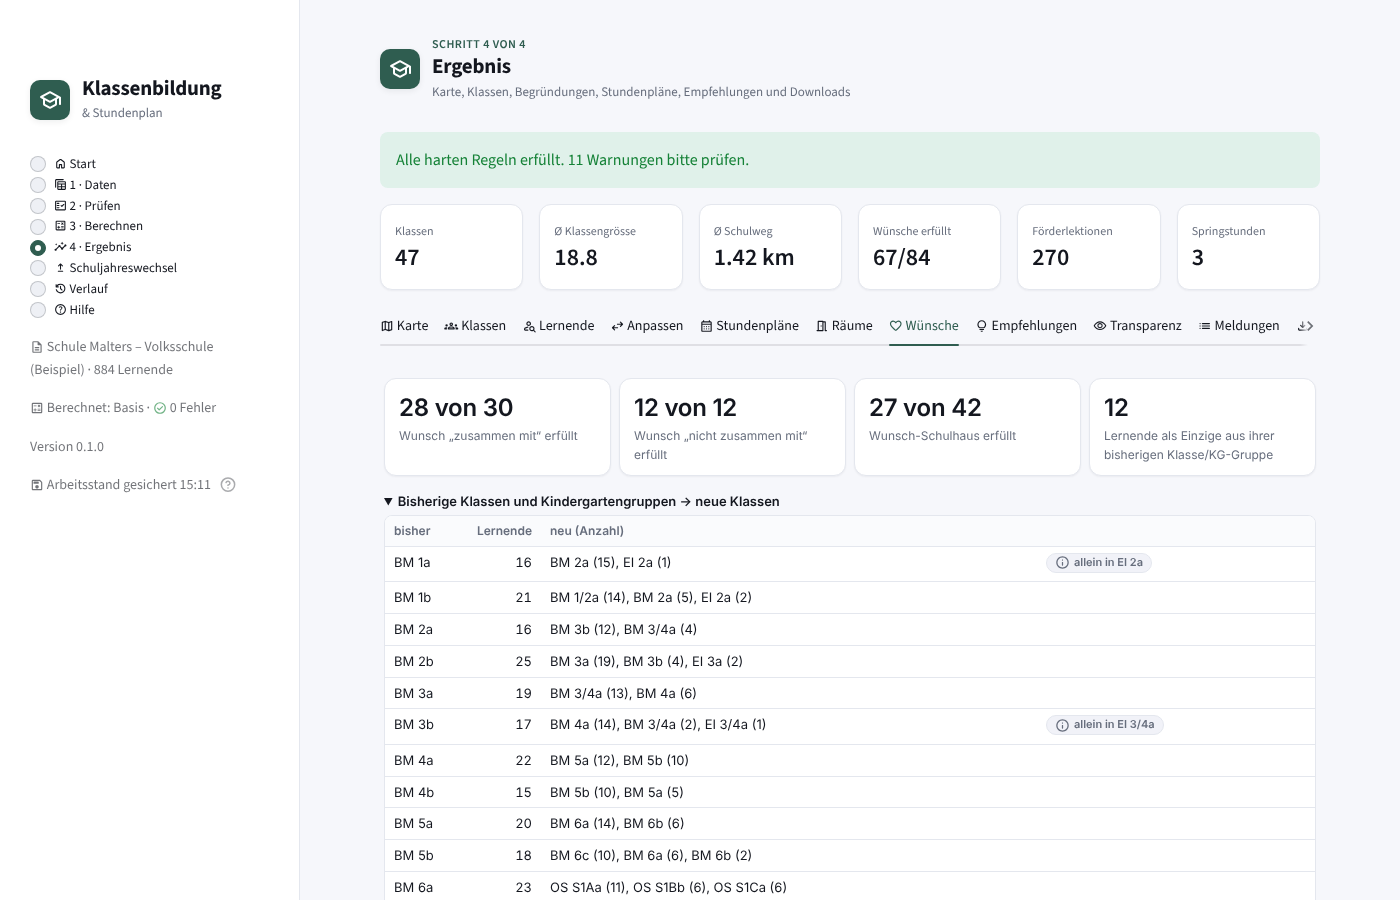
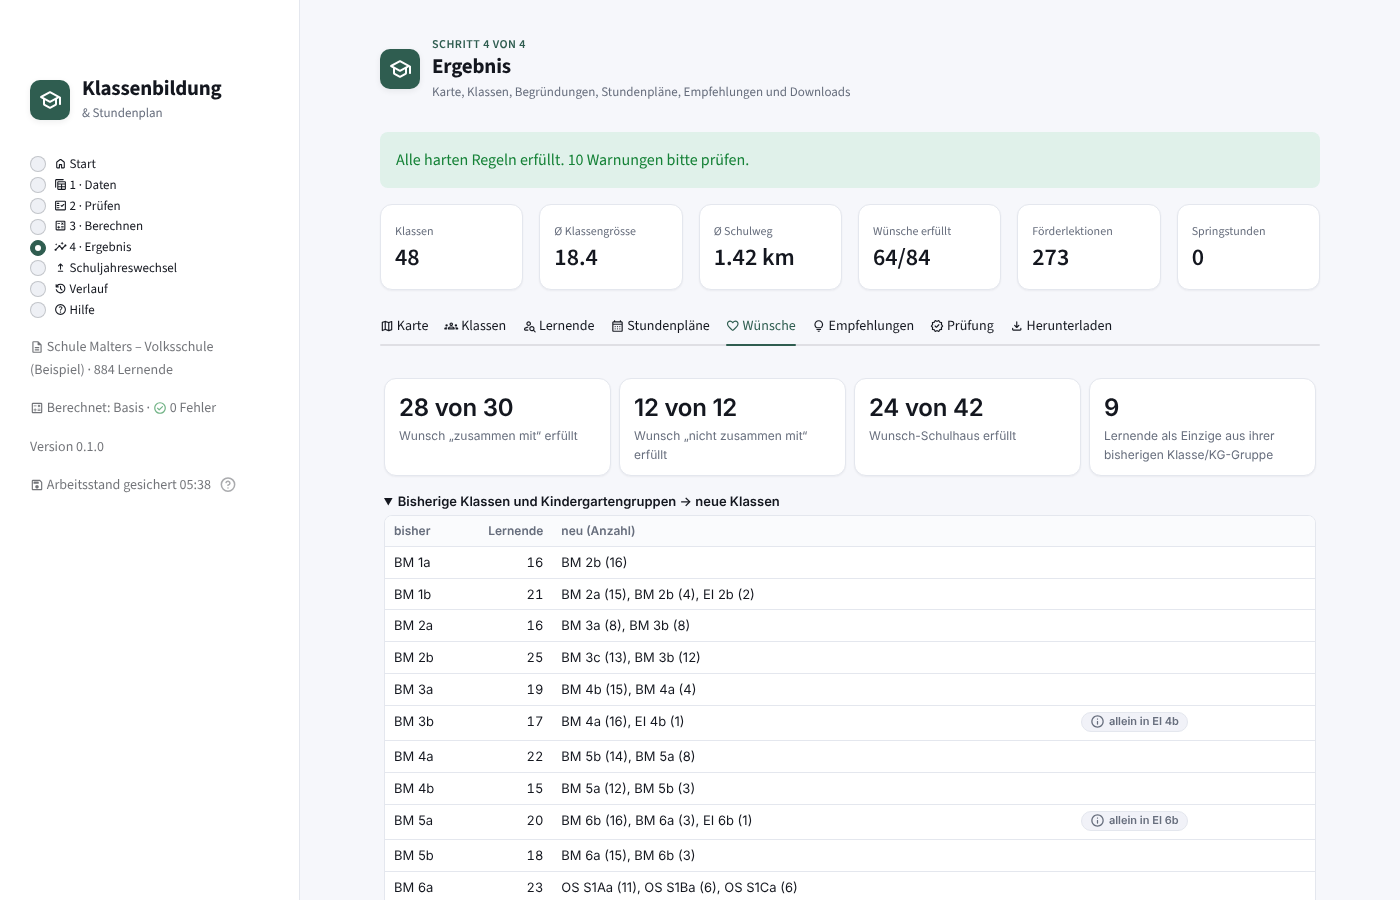
Ergebnis übersichtlicher: 8 statt 11 Reiter
- Anpassen bei den Klassen (Kinder der gewählten Klasse), Räume als Ansicht der Stundenpläne,
  Transparenz und Meldungen unter Prüfung; Screenshots und README angepasst

Claude-Session: https://claude.ai/code/session_01DuTPgjhWjbXqkScDqKsY48

diff --git a/skf/app.py b/skf/app.py
@@ -671,6 +671,30 @@ def _kind_karte(r: Ergebnis, kid: str) -> None:
                      hide_index=True, width="stretch")
 
 
+def _anpassen(r: Ergebnis, nach_id: dict, klasse) -> None:
+    e = r.einteilung
+    st.caption(f"Ein Kind aus {klasse.name} in eine andere Klasse verschieben – danach wird alles neu geprüft "
+               "(Klassengrössen, Wünsche, Geschwister, Gspänli-Regel, Recht).")
+    a, b = st.columns(2)
+    kid = a.selectbox("Kind", sorted(klasse.kinder, key=lambda i: nach_id[i].name), key=f"anp_kind_{klasse.name}",
+                      format_func=lambda i: f"{nach_id[i].name} · {i}")
+    moeglich = [c.name for c in e.klassen if nach_id[kid].jahrgang in c.vorlage.jahrgaenge]
+    ziel = b.selectbox("Neue Klasse", moeglich, index=moeglich.index(e.klasse_von[kid]), key=f"anp_ziel_{kid}")
+    if st.button("Verschieben und prüfen", type="primary", disabled=ziel == e.klasse_von[kid]):
+        vorher = r.anzahl("Fehler"), r.anzahl("Warnung")
+        text = verschiebe(r, kid, ziel)
+        st.toast(text)
+        nachher = r.anzahl("Fehler"), r.anzahl("Warnung")
+        (st.error if nachher[0] > vorher[0] else st.success)(
+            f"{text}. Fehler {vorher[0]} → {nachher[0]}, Warnungen {vorher[1]} → {nachher[1]}.")
+    if r.manuell:
+        st.markdown("**Manuelle Anpassungen:**  \n" + "  \n".join(f"• {t}" for t in r.manuell))
+        if st.button("Angepassten Stand im Verlauf speichern"):
+            cfg, _ = _aktuelle_daten()
+            verlauf.speichere(r, cfg, "manuell angepasst")
+            st.toast("Im Verlauf gespeichert", icon=":material/history:")
+
+
 def seite_ergebnis() -> None:
     _kopf("Ergebnis", "Karte, Klassen, Begründungen, Stundenpläne, Empfehlungen und Downloads", "Schritt 4 von 4")
     r: Ergebnis | None = st.session_state.get("ergebnis")
@@ -678,7 +702,7 @@ def seite_ergebnis() -> None:
         st.info("Noch nichts berechnet (Schritt 3).")
         return
     if r.anzahl("Fehler"):
-        st.error(f"{r.anzahl('Fehler')} Fehler – das Ergebnis ist so nicht verwendbar. Details unter *Meldungen*.")
+        st.error(f"{r.anzahl('Fehler')} Fehler – das Ergebnis ist so nicht verwendbar. Details unter *Prüfung*.")
     else:
         st.success("Alle harten Regeln erfüllt." + (f" {r.anzahl('Warnung')} Warnungen bitte prüfen."
                                                        if r.anzahl("Warnung") else ""))
@@ -688,16 +712,24 @@ def seite_ergebnis() -> None:
                            "Springstunden"]):
         spalten[i].metric(k, kz[k])
     tabs = st.tabs([":material/map: Karte", ":material/groups: Klassen", ":material/person_search: Lernende",
-                    ":material/swap_horiz: Anpassen", ":material/calendar_month: Stundenpläne", ":material/meeting_room: Räume",
-                    ":material/favorite: Wünsche", ":material/lightbulb: Empfehlungen",
-                    ":material/visibility: Transparenz", ":material/list: Meldungen", ":material/download: Herunterladen"])
+                    ":material/calendar_month: Stundenpläne", ":material/favorite: Wünsche",
+                    ":material/lightbulb: Empfehlungen", ":material/verified: Prüfung", ":material/download: Herunterladen"])
     e = r.einteilung
-    with tabs[9]:
-        filt = st.multiselect("Anzeigen", SCHWEREGRADE, default=["Fehler", "Warnung"])
-        df = pd.DataFrame([{"Schweregrad": m.schwere, "Bereich": m.bereich, "Meldung": m.text,
-                            "Quelle": m.quelle} for m in sorted(r.meldungen, key=lambda m: SCHWEREGRADE.index(m.schwere))
-                           if m.schwere in filt])
-        st.dataframe(df, width="stretch", hide_index=True, height=420)
+    with tabs[6]:
+        if e:
+            rg = [x for x in regeln(r) if x["geprueft"]]
+            ok = sum(not x["verstoesse"] for x in rg)
+            (st.success if ok == len(rg) else st.error)(f"{ok} von {len(rg)} harten Regeln erfüllt – unabhängig "
+                                                        "nachgezählt.", icon=":material/verified:")
+        with st.expander(f"Meldungen ({len(r.meldungen)})", icon=":material/list:", expanded=not e or bool(
+                r.anzahl("Fehler"))):
+            filt = st.multiselect("Anzeigen", SCHWEREGRADE, default=["Fehler", "Warnung"])
+            df = pd.DataFrame([{"Schweregrad": m.schwere, "Bereich": m.bereich, "Meldung": m.text, "Quelle": m.quelle}
+                               for m in sorted(r.meldungen, key=lambda m: SCHWEREGRADE.index(m.schwere))
+                               if m.schwere in filt])
+            st.dataframe(df, width="stretch", hide_index=True, height=360)
+        if e:
+            _html(transparenz_html(r), 1100)
     if not e:
         return
     nach_id = {k.id: k for k in r.kinder}
@@ -729,37 +761,19 @@ def seite_ergebnis() -> None:
                                                f"nicht mit {', '.join(k.nicht_mit)}" if k.nicht_mit else ""])),
             "Weg km": round(e.schulweg_m[k.id] / 1000, 2)}
             for k in sorted((nach_id[i] for i in c.kinder), key=lambda k: k.name)]), width="stretch", hide_index=True)
+        with st.expander("Kind in eine andere Klasse verschieben", icon=":material/swap_horiz:",
+                         expanded=bool(r.manuell)):
+            _anpassen(r, nach_id, c)
     with tabs[2]:
         optionen = sorted(r.kinder, key=lambda k: k.name)
         kid = st.selectbox("Lernende suchen (Name oder ID tippen)", [k.id for k in optionen],
                            format_func=lambda i: f"{nach_id[i].name} · {i} · {nach_id[i].jahrgang}", key="kind_wahl")
         _kind_karte(r, kid)
     with tabs[3]:
-        st.write("Ein Kind in eine andere Klasse verschieben. Danach wird alles neu geprüft "
-                 "(Klassengrössen, Wünsche, Geschwister, Gspänli-Regel, Recht).")
-        a, b = st.columns(2)
-        kid = a.selectbox("Kind", [k.id for k in sorted(r.kinder, key=lambda k: k.name)], key="anp_kind",
-                          format_func=lambda i: f"{nach_id[i].name} · {i} · {e.klasse_von[i]}")
-        moeglich = [c.name for c in e.klassen if nach_id[kid].jahrgang in c.vorlage.jahrgaenge]
-        ziel = b.selectbox("Neue Klasse", moeglich, index=moeglich.index(e.klasse_von[kid]), key="anp_ziel")
-        if st.button("Verschieben und prüfen", type="primary", disabled=ziel == e.klasse_von[kid]):
-            vorher = r.anzahl("Fehler"), r.anzahl("Warnung")
-            text = verschiebe(r, kid, ziel)
-            st.toast(text)
-            nachher = r.anzahl("Fehler"), r.anzahl("Warnung")
-            (st.error if nachher[0] > vorher[0] else st.success)(
-                f"{text}. Fehler {vorher[0]} → {nachher[0]}, Warnungen {vorher[1]} → {nachher[1]}.")
-        if r.manuell:
-            st.markdown("**Manuelle Anpassungen:**  \n" + "  \n".join(f"• {t}" for t in r.manuell))
-            if st.button("Angepassten Stand im Verlauf speichern"):
-                cfg, _ = _aktuelle_daten()
-                verlauf.speichere(r, cfg, "manuell angepasst")
-                st.toast("Im Verlauf gespeichert", icon=":material/history:")
-    with tabs[4]:
         if not r.lektionen:
             st.info("Kein Stundenplan berechnet.")
         else:
-            art = st.radio("Stundenplan für", ["Klasse", "Lehrperson"], horizontal=True)
+            art = st.radio("Stundenplan für", ["Klasse", "Lehrperson", "Raum"], horizontal=True)
             if art == "Klasse":
                 wahl = st.selectbox("Klasse", [c.name for c in e.klassen], key="sp_klasse")
                 c = next(c for c in e.klassen if c.name == wahl)
@@ -770,7 +784,7 @@ def seite_ergebnis() -> None:
                             f"<b>{l.fach}</b><br>{l.lehrperson}<br><span class='muted'>{l.raum_label}</span>"
                             if l.art == "unterricht" else f"<br><i>+ {l.fach}: {l.lehrperson}</i>")
                 _html(_plan(r, eintr, r.schule.schulhaus(c.schulhaus).nicht_verfuegbar, {}), 440)
-            else:
+            elif art == "Lehrperson":
                 namen = sorted({b.lehrperson for b in r.bloecke})
                 wahl = st.selectbox("Lehrperson", namen, key="sp_lp")
                 lp = next(x for x in r.schule.lehrpersonen if x.name == wahl)
@@ -778,19 +792,13 @@ def seite_ergebnis() -> None:
                          for l in r.lektionen if l.lehrperson == wahl}
                 st.caption(f"{len(eintr)} Lektionen · Pensum {lp.pensum_min}–{lp.pensum_max}")
                 _html(_plan(r, eintr, lp.nicht_verfuegbar, {}), 440)
-    with tabs[5]:
-        _raeume_tab(r)
-    with tabs[6]:
+            if art == "Raum":
+                _raeume_tab(r)
+    with tabs[4]:
         _html(_wuensche_html(r), 560)
-    with tabs[7]:
+    with tabs[5]:
         _html(_empfehlungen_html(r) or "<p>Keine Empfehlungen.</p>", 720)
-    with tabs[8]:
-        rg = [x for x in regeln(r) if x["geprueft"]]
-        ok = sum(not x["verstoesse"] for x in rg)
-        (st.success if ok == len(rg) else st.error)(f"{ok} von {len(rg)} harten Regeln erfüllt – unabhängig "
-                                                    "nachgezählt.", icon=":material/verified:")
-        _html(transparenz_html(r), 1100)
-    with tabs[10]:
+    with tabs[7]:
         mit_foerder = st.toggle("IF/DaZ/IS in Klassenlisten aufnehmen (besonders schützenswerte Daten)")
         with tempfile.TemporaryDirectory() as tmp:
             ordner = Path(tmp)

diff --git a/tests/test_browser_e2e.py b/tests/test_browser_e2e.py
@@ -94,21 +94,26 @@ def test_bedienung_im_browser(app_url):
         seite.screenshot(path=BILDER / "4-ergebnis-karte.png")
 
         for tab, datei in (("Klassen", "5-klassen.png"), ("Lernende", "6-lernende.png"),
-                           ("Transparenz", "6b-transparenz.png"),
-                           ("Anpassen", "7-anpassen.png"), ("Stundenpläne", "8-stundenplan.png"),
-                           ("Räume", "8b-raeume.png"),
+                           ("Prüfung", "6b-transparenz.png"), ("Stundenpläne", "8-stundenplan.png"),
                            ("Wünsche", "9-wuensche.png"), ("Empfehlungen", "10-empfehlungen.png"),
                            ("Herunterladen", "11-herunterladen.png")):
             seite.get_by_role("tab", name=tab).click()
             time.sleep(2.5)
             seite.screenshot(path=BILDER / datei)
+            if tab == "Stundenpläne":  # Räume: dritte Ansicht im Reiter Stundenpläne
+                seite.get_by_text("Raum", exact=True).click()
+                seite.get_by_text("Wochenplan für Raum").wait_for()
+                time.sleep(2)
+                seite.screenshot(path=BILDER / "8b-raeume.png")
         with seite.expect_download() as download:
             seite.get_by_role("button", name="Klassenlisten (Excel, druckfertig)").click()
         assert download.value.suggested_filename == "klassenlisten.xlsx"
 
-        seite.get_by_role("tab", name="Anpassen").click()
-        time.sleep(1)
+        seite.get_by_role("tab", name="Klassen").click()
+        seite.get_by_text("Kind in eine andere Klasse verschieben", exact=True).click()
         seite.get_by_role("button", name="Verschieben und prüfen").wait_for()
+        time.sleep(1)
+        seite.screenshot(path=BILDER / "7-anpassen.png")
 
         _navigiere(seite, "Schuljahreswechsel")
         seite.get_by_text("Entscheid fehlt").first.wait_for(timeout=60_000)

diff --git a/tests/test_app.py b/tests/test_app.py
@@ -53,7 +53,8 @@ def test_app_ablauf_mit_vorlage(verlauf_ordner):
     assert not at.exception
     assert any("Alle harten Regeln erfüllt" in s.value for s in at.success)
     assert [m.label for m in at.metric][:2] == ["Klassen", "Ø Klassengrösse"]
-    # Raumplanung: Auslastung und Wochenplan je Raum
+    # Raumplanung im Reiter Stundenpläne: Auslastung und Wochenplan je Raum
+    next(x for x in at.radio if x.label == "Stundenplan für").set_value("Raum").run()
     assert "Räume" in [m.label for m in at.metric]
     assert at.selectbox(key="raum_wahl").value.startswith("Schulhaus A · ")
     assert {b.label for b in at.get("download_button")} >= {
@@ -77,8 +78,10 @@ def test_manuell_verschieben(verlauf_ordner):
     kind = next(k for k in r.kinder if k.jahrgang == "1")
     ziel = next(c.name for c in r.einteilung.klassen
                 if "1" in c.vorlage.jahrgaenge and c.name != r.einteilung.klasse_von[kind.id])
-    at.selectbox(key="anp_kind").set_value(kind.id).run()
-    at.selectbox(key="anp_ziel").set_value(ziel).run()
+    bisher = r.einteilung.klasse_von[kind.id]
+    at.selectbox(key="kl_wahl").set_value(bisher).run()
+    at.selectbox(key=f"anp_kind_{bisher}").set_value(kind.id).run()
+    at.selectbox(key=f"anp_ziel_{kind.id}").set_value(ziel).run()
     next(b for b in at.button if b.label == "Verschieben und prüfen").click().run()
     assert not at.exception
     r = at.session_state["ergebnis"]

diff --git a/README.md b/README.md
@@ -78,8 +78,8 @@ Für Fachleute: `uv run skf app` oder `pip install -e .` und dann `skf app`.
 | **1 · Daten** | Lernende, Lehrpersonen, Schulhäuser, Räume, Klassentypen, Förderangebote direkt in Tabellen bearbeiten oder Excel hochladen; **Raum- und Lehrpersonenlisten** (CSV/Excel, Spalten frei benannt) übernehmen; Gewichtung mit Schiebereglern; als Excel speichern | [Daten](docs/screenshots/1-daten.png), [Gewichtung](docs/screenshots/1b-gewichtung.png), [Raumliste](docs/screenshots/1c-raeume-import.png) |
 | **2 · Prüfen** | fehlende oder widersprüchliche Angaben (Fehler, Warnung, Hinweis) | [Prüfen](docs/screenshots/2-pruefen.png) |
 | **3 · Berechnen** | Szenario, Rechenzeit, Notiz; jede Berechnung wird im Verlauf gespeichert | [Berechnen](docs/screenshots/3-berechnen.png) |
-| **4 · Ergebnis** | **Karte** (Klasse wählen → Einzugsgebiet mit Umriss; Farbe nach Schulhaus oder Jahrgang; **Geschwister verbinden**, getrennte Familien rot; Schulwege; Klick hebt Familie hervor) · Klassen und Klassenlisten mit Geschwistern und Vorjahresklasse · **Lernende** (Personenkarte mit Geschwistern, erfüllten und offenen Wünschen, KG-Gruppe, Verlauf) · **Anpassen** (Kind verschieben, sofort neu geprüft) · Stundenpläne · **Räume** (Auslastung, Wochenplan je Raum, Belegungsübersicht) · Wünsche und KG-Gruppen · Empfehlungen · Downloads | [Karte](docs/screenshots/4-ergebnis-karte.png), [Klassen](docs/screenshots/5-klassen.png), [Lernende](docs/screenshots/6-lernende.png), [Anpassen](docs/screenshots/7-anpassen.png), [Stundenplan](docs/screenshots/8-stundenplan.png), [Räume](docs/screenshots/8b-raeume.png), [Wünsche](docs/screenshots/9-wuensche.png), [Empfehlungen](docs/screenshots/10-empfehlungen.png), [Downloads](docs/screenshots/11-herunterladen.png) |
-| **Transparenz** (in 4 · Ergebnis) | alle harten Regeln mit Prüfstatus; Abwägungen (Messwert × Gewicht = Strafpunkte je Ziel); Lösungsgüte pro Rechenschritt; bei jedem Kind **„Warum hier?“** mit allen Schulhäusern, Wegen, freien Plätzen und Gründen | [Transparenz](docs/screenshots/6b-transparenz.png), [Begründung](docs/screenshots/6-lernende.png) |
+| **4 · Ergebnis** | **Karte** (Klasse wählen → Einzugsgebiet; Farbe nach Schulhaus oder Jahrgang; **Geschwister verbinden**, getrennte Familien rot; Schulwege) · **Klassen** mit Klassenlisten, Geschwistern, Vorjahresklasse und **Anpassen** (Kind verschieben, sofort neu geprüft) · **Lernende** (Personenkarte mit „Warum hier?“) · **Stundenpläne** je Klasse, Lehrperson oder **Raum** (Auslastung, Wochenplan) · Wünsche und KG-Gruppen · Empfehlungen · **Prüfung** (harte Regeln nachgezählt, Abwägungen, Meldungen) · Downloads | [Karte](docs/screenshots/4-ergebnis-karte.png), [Klassen](docs/screenshots/5-klassen.png), [Lernende](docs/screenshots/6-lernende.png), [Anpassen](docs/screenshots/7-anpassen.png), [Stundenplan](docs/screenshots/8-stundenplan.png), [Räume](docs/screenshots/8b-raeume.png), [Wünsche](docs/screenshots/9-wuensche.png), [Empfehlungen](docs/screenshots/10-empfehlungen.png), [Prüfung](docs/screenshots/6b-transparenz.png), [Downloads](docs/screenshots/11-herunterladen.png) |
+| **Prüfung** (in 4 · Ergebnis) | alle harten Regeln mit Prüfstatus; Abwägungen (Messwert × Gewicht = Strafpunkte je Ziel); Lösungsgüte pro Rechenschritt; bei jedem Kind **„Warum hier?“** mit allen Schulhäusern, Wegen, freien Plätzen und Gründen | [Transparenz](docs/screenshots/6b-transparenz.png), [Begründung](docs/screenshots/6-lernende.png) |
 | **Schuljahreswechsel** | jede Stufe → nächste Stufe: Entscheide pro Kind (Sek A/B/C, Kanti, repetiert, Wegzug …), Neueintritte KG1 hochladen, Vorschau mit Übertritten/Austritten, dann als neues Schuljahr übernehmen (aktuelle Klassen werden „bisherige Klasse“) | [Schuljahreswechsel](docs/screenshots/12b-schuljahreswechsel.png) |
 | **Verlauf** | alle gespeicherten Stände mit Kennzahlen; zwei Stände vergleichen (wer wechselte wohin); Bericht/Listen eines Standes herunterladen; Eingabedaten wiederherstellen | [Verlauf](docs/screenshots/12-verlauf.png) |
 
@@ -200,7 +200,7 @@ Geschwindigkeit). Turnhallen in einem anderen Schulhaus (`nutzt`) zählen als di
 
 Beides wird in der App unter *Daten → Schulbus & Wege* eingerichtet, gilt als harte
 Regel, wird nach der Berechnung unabhängig nachgezählt und erscheint in der
-Transparenz-Ansicht. Klassenlisten erhalten eine Spalte *Schulbus*. Das Beispiel Malters
+Prüfung (Ergebnis). Klassenlisten erhalten eine Spalte *Schulbus*. Das Beispiel Malters
 enthält eine Buslinie für den Weiler Blatten und eine Wegzeit Bündtmättli–Eischachen.
 
 ```yaml
@@ -392,7 +392,7 @@ des Raums, z.B. Vereinsnutzung `Fr-NM`, und des Schulhauses), auch in einem ande
 Schulhaus (`nutzt: {Turnhalle: Bündtmättli}`). Reichen die Räume nicht, nennt die
 Konfliktanalyse den Engpass; die Empfehlungen zeigen Raumreserven und Ausbaubedarf.
 
-**Ansehen:** In der App unter *Ergebnis → Räume*: Auslastung jedes Raums, ungenutzte und
+**Ansehen:** In der App unter *Ergebnis → Stundenpläne → Raum*: Auslastung jedes Raums, ungenutzte und
 fast volle Räume, Wochenplan je Raum und die Belegungsübersicht aller Räume; im Bericht
 unter *Raumbelegung*; in `stundenplaene.xlsx` ein Blatt je Spezialraum.
 

diff --git a/CHANGELOG.md b/CHANGELOG.md
@@ -8,6 +8,8 @@ Neue Version: `python scripts/version.py 0.2.0`.
 ## [Unveröffentlicht]
 
 ### Geändert
+- Ergebnis übersichtlicher: 8 statt 11 Reiter – *Anpassen* direkt bei den Klassen (Kinder der gewählten
+  Klasse), *Räume* als dritte Ansicht der Stundenpläne, *Transparenz* und *Meldungen* zusammen unter *Prüfung*.
 - Mögliche Schulhäuser eines Kindes berücksichtigen nun auch, ob ein passender Raum vorhanden ist.
 - Geschwisterregel nur unter Geschwistern, die im selben Schulhaus sein können.
 - Kantonsprofil Luzern 2026.10.1: Klassengrössen Sekundarschule (Annahme, zu prüfen), DaZ-Gruppen auch für die Oberstufe.
